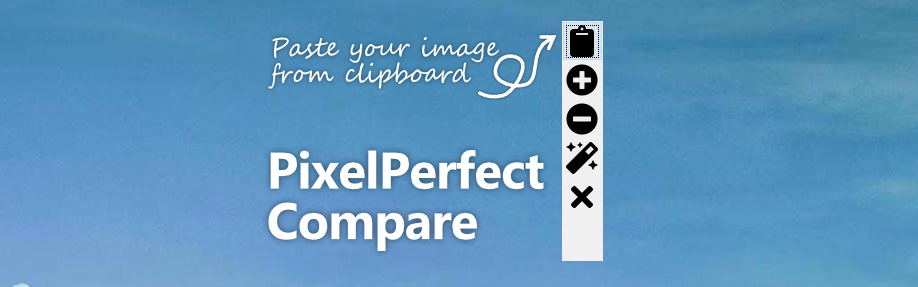
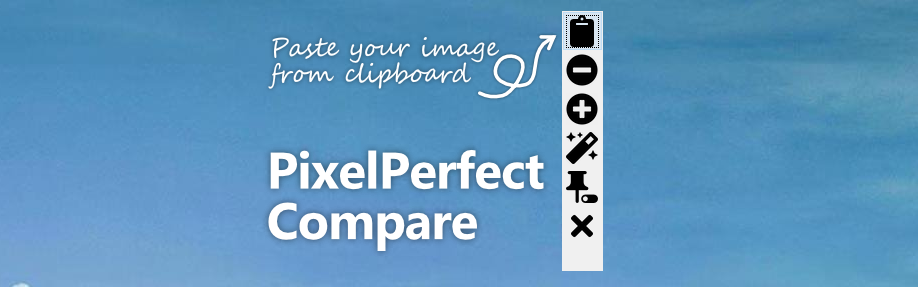
Add always on top mode

diff --git a/src/main/java/dev/coreequip/visualcompare/App.java b/src/main/java/dev/coreequip/visualcompare/App.java
@@ -17,11 +17,12 @@ import java.util.Map;
 
 public class App extends JFrame implements ActionListener, MouseListener, MouseMotionListener {
 
-    private static final String VERSION = "1.0";
     private Point relLoc;
     private final JLabel label;
+    private final JButton toggleButtonAot;
     private Image currentImage = null;
     private boolean backgroundRemoved = false;
+    private boolean alwaysOnTop = false;
 
 
     static Image getImageFromClipboard() {
@@ -61,12 +62,14 @@ public class App extends JFrame implements ActionListener, MouseListener, MouseM
         jtb.add(makeToolbarButton("minus-circle", "Decrease opacity", "dec"));
         jtb.add(makeToolbarButton("plus-circle", "Increase opacity", "inc"));
         jtb.add(makeToolbarButton("magic", "Remove background", "remove-bg"));
+        toggleButtonAot = makeToolbarButton("pushpin-off", "Toggle always on top", "toggle-aot");
+        jtb.add(toggleButtonAot);
         jtb.add(makeToolbarButton("times", "Exit", "exit"));
 
         final String cmds = "move-left|alt LEFT,move-right|alt RIGHT,move-top|alt UP,move-bottom|alt DOWN," +
                 "move-left-fast|alt shift LEFT,move-right-fast|alt shift RIGHT," +
                 "move-top-fast|alt shift UP,move-bottom-fast|alt shift DOWN," +
-                "inc|control I,dec|control D,paste|control V,exit|control Q,remove-bg|control B";
+                "inc|control I,dec|control D,paste|control V,exit|control Q,remove-bg|control B,toggle-aot|control T";
         for (String cmdTupel : cmds.split(",")) {
             final String[] split = cmdTupel.split("\\|");
             getRootPane().registerKeyboardAction(
@@ -86,7 +89,7 @@ public class App extends JFrame implements ActionListener, MouseListener, MouseM
 
         setIconImage(getIcon("icon").getImage());
 
-        setMinimumSize(new Dimension(200, 240));
+        setMinimumSize(new Dimension(200, 260));
         setUndecorated(true);
         setBackground(new Color(0, 0, 0, 0));
         pack();
@@ -184,6 +187,14 @@ public class App extends JFrame implements ActionListener, MouseListener, MouseM
                 break;
             case "move-bottom-fast":
                 moveWindowRelative(0, 20);
+                break;
+            case "toggle-aot":
+                this.alwaysOnTop ^= true;
+                this.setAlwaysOnTop(this.alwaysOnTop);
+                try {
+                    this.toggleButtonAot.setIcon(this.getIcon("pushpin-" + (this.alwaysOnTop ? "on" : "off")));
+                } catch (IOException ignored) {
+                }
                 break;
         }
     }

diff --git a/README.md b/README.md
@@ -12,7 +12,7 @@ Download the latest release [here](https://github.com/coreequip/pixelperfect-com
 Run the **JAR** file with da double-click (if JAR associated with Java).
 If not run it with:
 
-`javaw -jar pixelperfect-compare-0.1.jar`
+`javaw -jar pixelperfect-compare.jar`
 
 ## Buttonbar
 
@@ -27,6 +27,9 @@ If not run it with:
 
 - **Magic wand** (Ctrl-B)  
   Toggle removal of image background color.
+
+- **Aways on top** (Ctrl-T)  
+  Toggle the topmost window position.
 
 - **Exit** (Ctrl-Q)   
   Closes the app.
